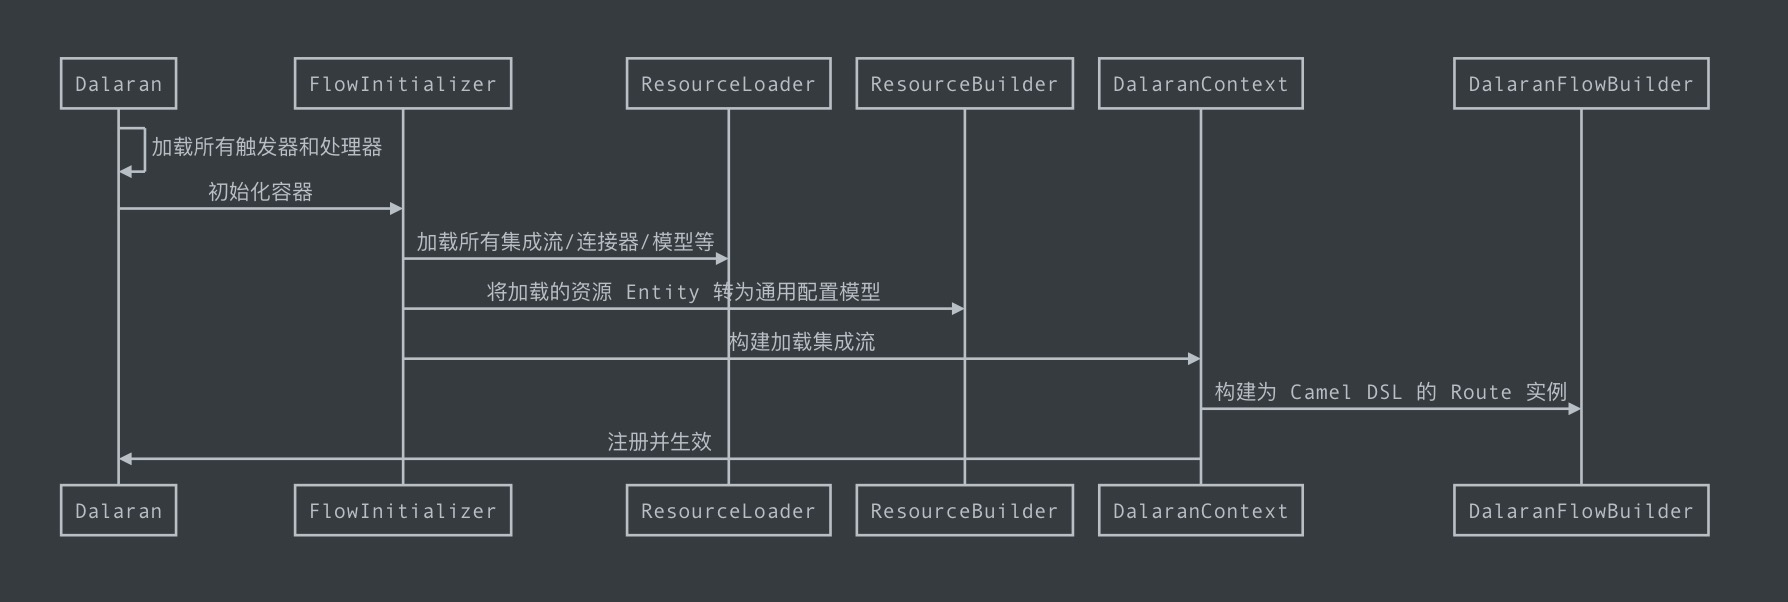
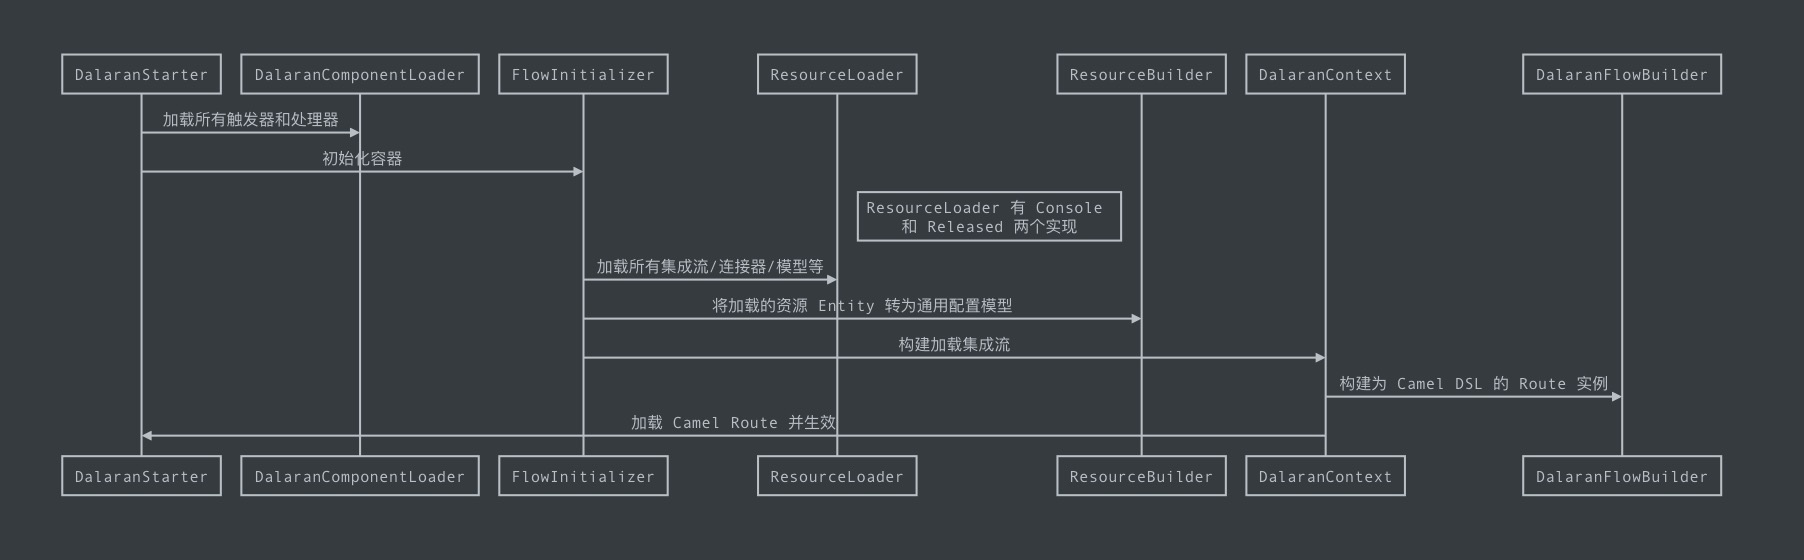
update developer docs

Changed region(s): [[0.0308, 0.0911, 0.9228, 0.9107], [0.7998, 0.7893, 0.9536, 0.9107], [0.7998, 0.0911, 0.9536, 0.2125]]

diff --git a/docs/user/quick-start.md b/docs/user/quick-start.md
@@ -1,6 +1,6 @@
 # 开始
 
-> 这里默认已经阅读过 [基本概念](./basic.md) 章节, 如果没有的话, 请先阅读.
+> 这里默认已经阅读过 [基本概念](../overview.md) 章节, 如果没有的话, 请先阅读.
 
 这里, 我们还是以之前的基础例子作为演示内容:
 
